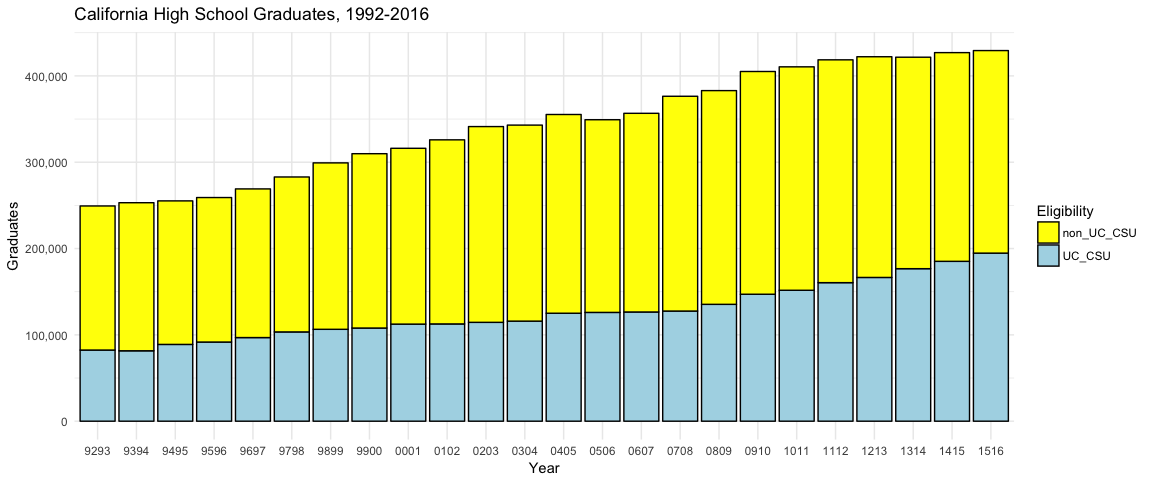
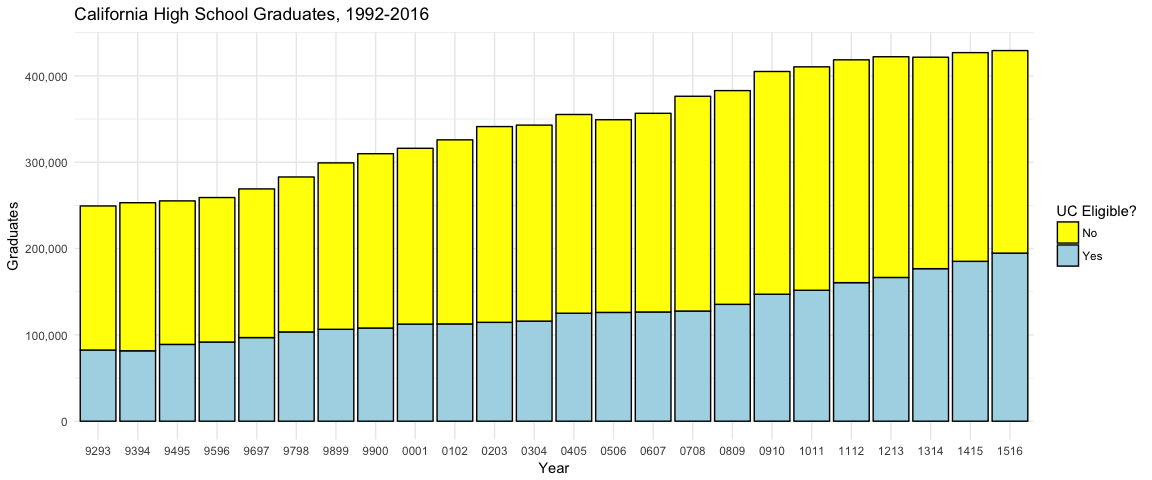
updated README

Changed region(s): [[0.0938, 0.0938, 1.0, 0.875], [0.0625, 0.9062, 0.875, 1.0]]

diff --git a/README.md b/README.md
@@ -50,15 +50,16 @@ data("graduates")
 graduates %>% 
   group_by(YEAR) %>% 
   summarize(total_grads = sum(GRADS),
-            UC_CSU = sum(UC_GRADS),
-            non_UC_CSU = total_grads - UC_CSU) %>%
+            Yes = sum(UC_GRADS),
+            No = total_grads - Yes) %>%
   select(-total_grads) %>% 
   gather(Eligibility, Graduates, -YEAR) %>% 
   ggplot(aes(YEAR, Graduates, fill = Eligibility)) +
   geom_bar(stat = "identity", color = "black") +
   labs(x = "Year",
        y = "Graduates",
-       title = "California High School Graduates, 1992-2016") +
+       title = "California High School Graduates, 1992-2016",
+       fill = "UC Eligible?") +
   scale_y_continuous(labels = scales::comma) +
   scale_fill_manual(values = c("yellow", "lightblue")) +
   theme_minimal() 
